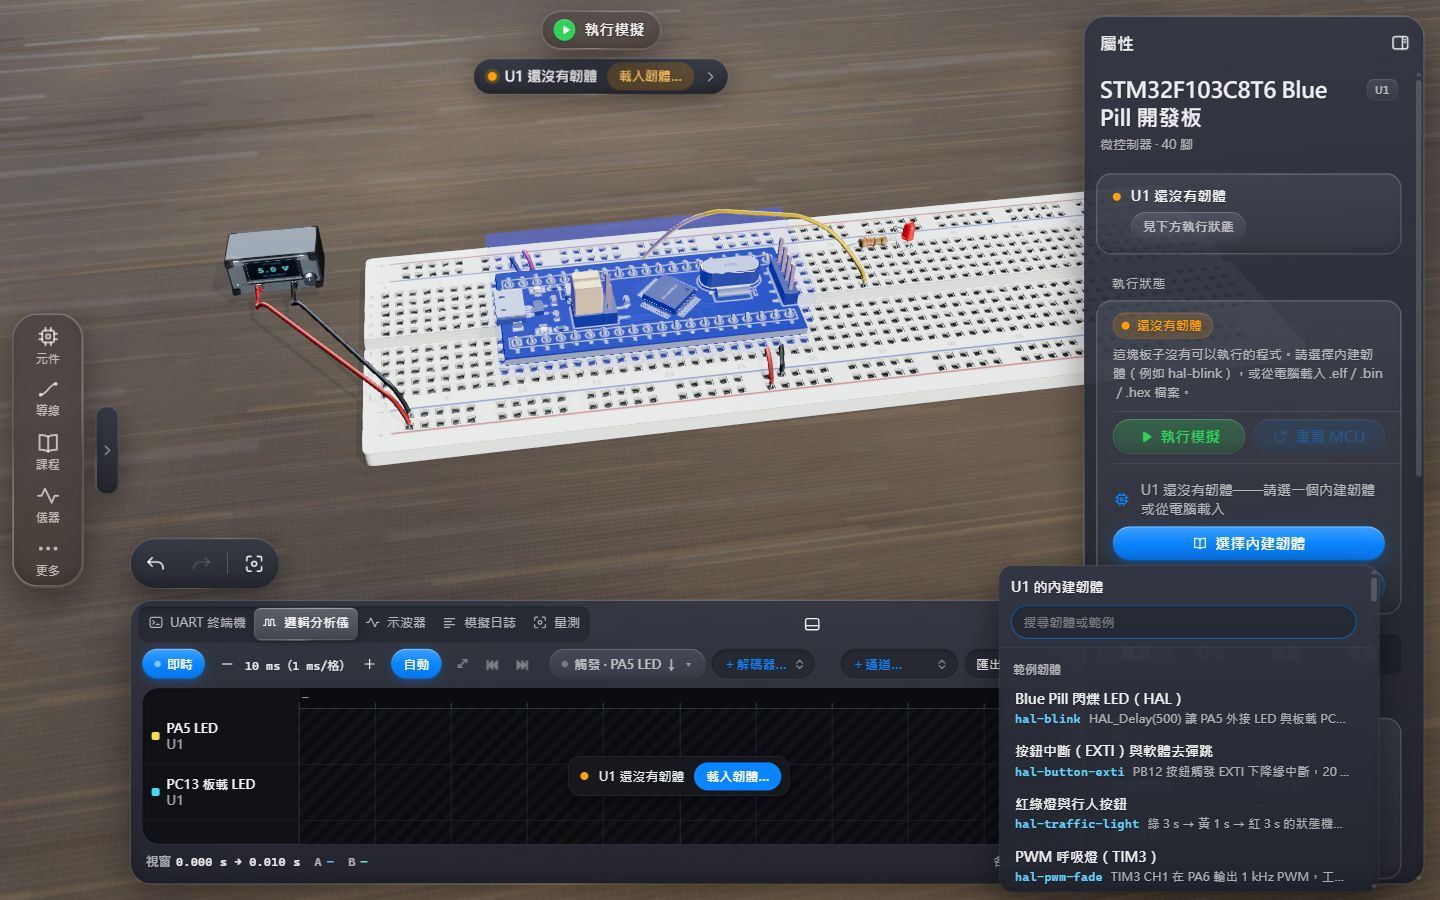
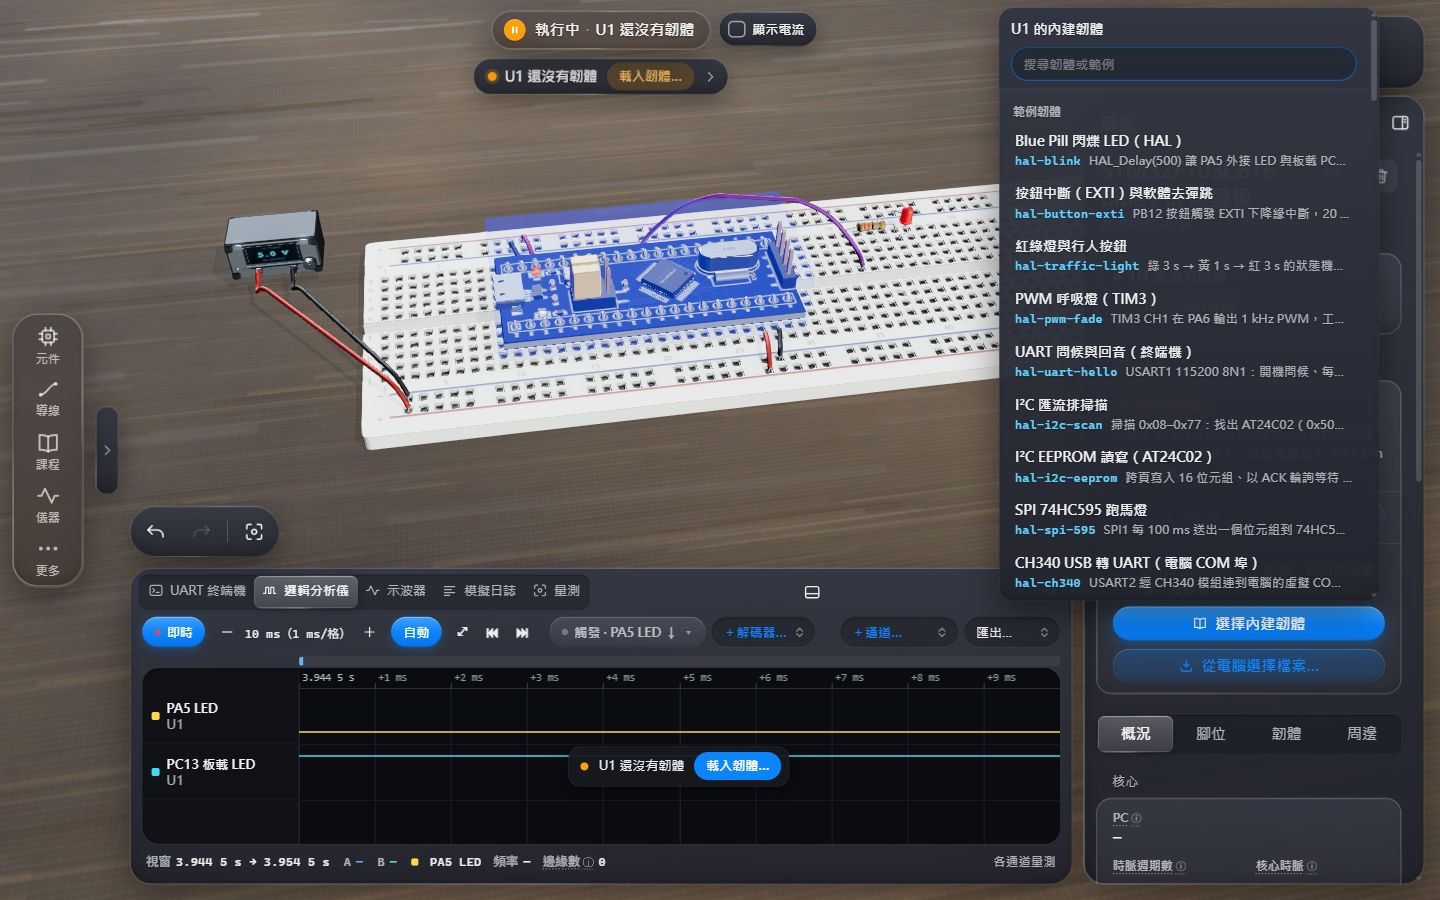
coponent up

diff --git a/docs/developer-guide.md b/docs/developer-guide.md
@@ -498,6 +498,7 @@ SHOTS_HEADED=1 SHOTS_URL=http://localhost:5345/ node scripts/docs-shots.mjs "pic
 
 - 每張圖都從全新的瀏覽器環境開始：中文介面、桌面工作區、1440×900（手機圖 390×844），導覽已完成（導覽本身的圖除外）。
   電路由範例庫與課程電路以 App 自己的開啟流程載入，介面狀態盡量以真實點擊操作到位；JPEG 品質 80（`tests/docs-links.test.ts` 要求每張圖 ≤ 300 KB）。
+  頁面以 `?e2e&shotrig&autorun` 開啟：自動模擬維持開啟，電路一開啟就開始模擬，和使用者看到的一樣。
 - 環境變數：`SHOTS_URL`（預設 `http://localhost:5173/`）、`SHOTS_OUT`（預設 `docs/images`）、`SHOTS_CHANNEL`（`msedge`／`chrome`／`bundled`，未設定時沿用 `VR_CHANNEL`）、
   `SHOTS_TEXT=1`（另存每張圖的頁面文字，方便核對用語；不要放進 `docs/`）、`SHOTS_HEADED=1`（開啟真正的前景視窗擷取）。任何一張失敗會印出 `FAILED <名稱>`，其他照常擷取，結束碼為 1。
 - **`docs/images` 請用 `SHOTS_HEADED=1` 擷取**：Windows 把無頭瀏覽器當成在背景執行的程式（排到省電核心），模擬執行緒只有約 0.3 倍速，膠囊會誠實寫出「0.3 倍速」；
